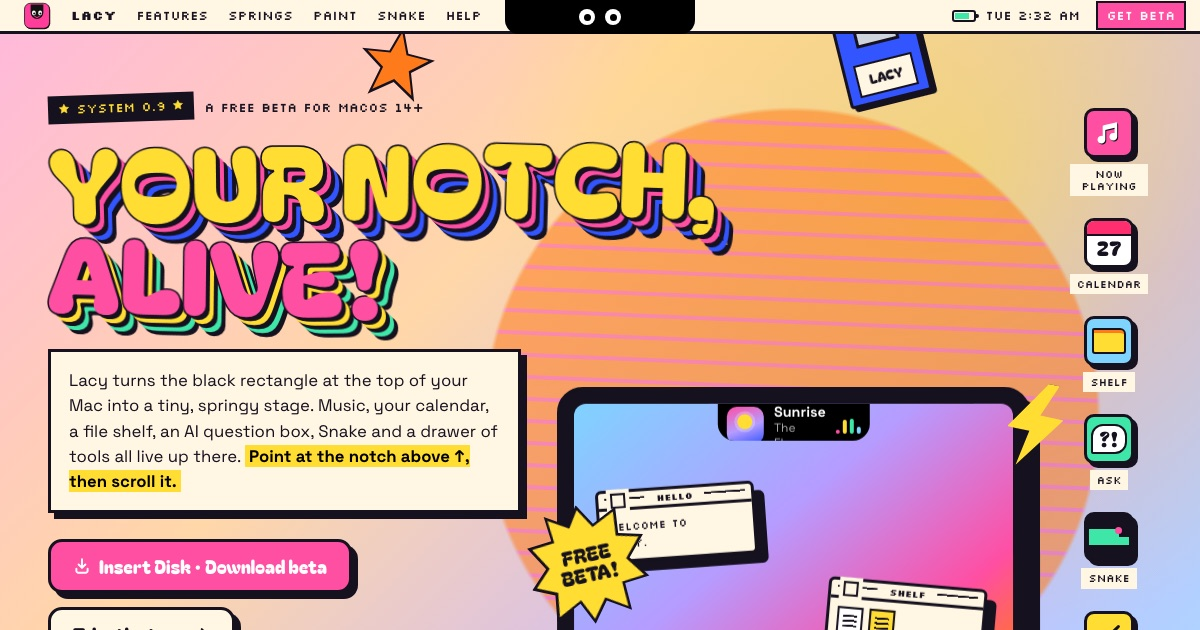
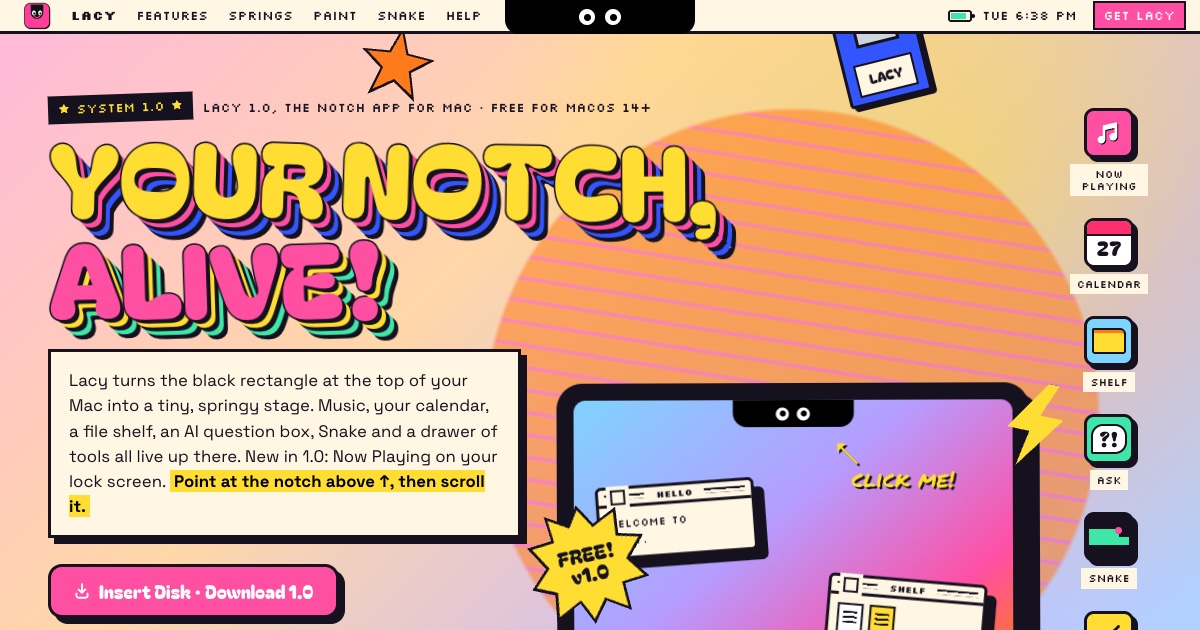
Deploy site from lacy@d2f816f

diff --git a/index.html b/index.html
@@ -10,7 +10,7 @@
 <meta property="og:type" content="website">
 <meta property="og:site_name" content="Lacy">
 <meta property="og:title" content="Lacy: a free notch app for Mac">
-<meta property="og:description" content="Music, calendar, a file shelf, Ask, Snake and tools, all living in your Mac's notch. Free beta for macOS 14+.">
+<meta property="og:description" content="Music, calendar, a file shelf, Ask, Snake and tools, all living in your Mac's notch, plus Now Playing on the lock screen. Free for macOS 14+.">
 <meta property="og:url" content="https://kirann-05.github.io/getlacy/">
 <meta property="og:image" content="https://kirann-05.github.io/getlacy/og.jpg">
 <meta property="og:image:width" content="1200">
@@ -18,8 +18,8 @@
 <meta name="twitter:card" content="summary_large_image">
 <meta name="twitter:image" content="https://kirann-05.github.io/getlacy/og.jpg">
 <title>Lacy: a free notch app for Mac · Your notch, alive</title>
-<meta name="description" content="Lacy is a free notch app for Mac. It turns your MacBook notch into a springy little stage for music, your calendar, a file shelf, AI questions, Snake and tools. Free beta for macOS 14+.">
-<script type="application/ld+json">{"@context": "https://schema.org", "@type": "SoftwareApplication", "name": "Lacy", "alternateName": "Lacy notch app", "applicationCategory": "UtilitiesApplication", "operatingSystem": "macOS 14 or later", "description": "Lacy is a free notch app for Mac. It turns the MacBook notch into a live space for now playing music, your calendar, a file shelf, quick AI questions, Snake and handy tools.", "url": "https://kirann-05.github.io/getlacy/", "image": "https://kirann-05.github.io/getlacy/og.jpg", "downloadUrl": "https://github.com/kirann-05/lacy-releases/releases/latest/download/Lacy.dmg", "softwareVersion": "0.9.0 beta", "offers": {"@type": "Offer", "price": "0", "priceCurrency": "USD"}}</script>
+<meta name="description" content="Lacy is a free notch app for Mac. It turns your MacBook notch into a springy little stage for music, your calendar, a file shelf, AI questions, Snake and tools, with Now Playing on the lock screen. Free for macOS 14+.">
+<script type="application/ld+json">{"@context": "https://schema.org", "@type": "SoftwareApplication", "name": "Lacy", "alternateName": "Lacy notch app", "applicationCategory": "UtilitiesApplication", "operatingSystem": "macOS 14 or later", "description": "Lacy is a free notch app for Mac. It turns the MacBook notch into a live space for now playing music, your calendar, a file shelf, quick AI questions, Snake and handy tools, plus a Now Playing card on the lock screen.", "url": "https://kirann-05.github.io/getlacy/", "image": "https://kirann-05.github.io/getlacy/og.jpg", "downloadUrl": "https://github.com/kirann-05/lacy-releases/releases/latest/download/Lacy.dmg", "softwareVersion": "1.0", "offers": {"@type": "Offer", "price": "0", "priceCurrency": "USD"}}</script>
 <link rel="preconnect" href="https://fonts.googleapis.com">
 <link rel="preconnect" href="https://fonts.gstatic.com" crossorigin>
 <link href="https://fonts.googleapis.com/css2?family=Bagel+Fat+One&family=Silkscreen:wght@400;700&family=VT323&family=Permanent+Marker&family=Space+Grotesk:wght@400;600;700&display=swap" rel="stylesheet">
@@ -84,7 +84,7 @@
   <div class="menubar__right">
     <span class="menubar__bat" aria-hidden="true"><i></i></span>
     <span id="clock" class="menubar__clock">--:--</span>
-    <a class="menubar__cta" href="#download">Get<span class="hide-xs"> beta</span></a>
+    <a class="menubar__cta" href="#download">Get<span class="hide-xs"> Lacy</span></a>
   </div>
 </header>
 
@@ -142,14 +142,14 @@
   <div class="hero__sun" aria-hidden="true"></div>
 
   <div class="hero__copy">
-    <p class="kicker"><span><svg class="i" aria-hidden="true"><use href="#i-star"/></svg> System 0.9 <svg class="i" aria-hidden="true"><use href="#i-star"/></svg></span> Lacy, the notch app for Mac · free beta for macOS 14+</p>
+    <p class="kicker"><span><svg class="i" aria-hidden="true"><use href="#i-star"/></svg> System 1.0 <svg class="i" aria-hidden="true"><use href="#i-star"/></svg></span> Lacy 1.0, the notch app for Mac · free for macOS 14+</p>
     <h1 id="heroTitle" class="mega">
       <span class="mega__line" data-split>YOUR NOTCH,</span>
       <span class="mega__line mega__line--b" data-split>ALIVE!</span>
     </h1>
-    <p class="hero__lede">Lacy turns the black rectangle at the top of your Mac into a tiny, springy stage. Music, your calendar, a file shelf, an AI question box, Snake and a drawer of tools all live up there. <mark>Point at the notch above ↑, then scroll it.</mark></p>
+    <p class="hero__lede">Lacy turns the black rectangle at the top of your Mac into a tiny, springy stage. Music, your calendar, a file shelf, an AI question box, Snake and a drawer of tools all live up there. New in 1.0: Now Playing on your lock screen. <mark>Point at the notch above ↑, then scroll it.</mark></p>
     <div class="hero__ctas">
-      <a href="#download" class="btn btn--pink"><svg class="i" aria-hidden="true"><use href="#i-download"/></svg> Insert Disk · Download beta</a>
+      <a href="#download" class="btn btn--pink"><svg class="i" aria-hidden="true"><use href="#i-download"/></svg> Insert Disk · Download 1.0</a>
       <a href="#features" class="btn btn--paper">Take the tour <svg class="i" aria-hidden="true"><use href="#i-arrow-right"/></svg></a>
     </div>
   </div>
@@ -186,7 +186,7 @@
 
   <!-- draggable stickers -->
   <div class="stickers" aria-hidden="true">
-    <div class="sticker burst burst--yellow" style="--x:44%;--y:58%;--r:-12deg">FREE<br>BETA!</div>
+    <div class="sticker burst burst--yellow" style="--x:44%;--y:58%;--r:-12deg">FREE!<br>v1.0</div>
     <div class="sticker pill pill--mint" style="--x:44%;--y:84%;--r:6deg">0.0% CPU idle</div>
     <div class="sticker circle circle--blue" style="--x:78%;--y:80%;--r:14deg">31<small>MB</small></div>
     <div class="sticker star" style="--x:30%;--y:3%;--r:10deg"></div>
@@ -218,7 +218,7 @@
   <div class="grid">
     <!-- Player -->
     <article class="win win--tilt1" id="f-player">
-      <div class="win__bar"><span class="win__close"></span><span class="win__title">Now Playing</span></div>
+      <div class="win__bar"><span class="win__close"></span><span class="win__title">Now Playing</span><span class="win__new pixel">NEW: lock screen</span></div>
       <div class="win__body">
         <div class="demo-player">
           <div class="dp__art" id="dpArt"><span></span></div>
@@ -227,7 +227,7 @@
             <div class="dp__ctrls"><button data-np="prev" aria-label="Previous"><svg class="i" aria-hidden="true"><use href="#i-backward"/></svg></button><button data-np="play" aria-label="Play or pause" class="big"><svg class="i" aria-hidden="true"><use href="#i-pause"/></svg></button><button data-np="next" aria-label="Next"><svg class="i" aria-hidden="true"><use href="#i-forward"/></svg></button></div>
           </div>
         </div>
-        <p>Spotify, Music, YouTube in your browser, podcasts, video players. Real artwork, a scrubber, and a waveform tinted to match the cover. Swipe the closed notch to skip. <mark>Press play: these songs are original chiptunes made for this page.</mark></p>
+        <p>Spotify, Music, YouTube in your browser, podcasts, video players. Real artwork, a scrubber, and a waveform tinted to match the cover. Swipe the closed notch to skip. New in 1.0: lock your Mac and a see-through glass card keeps what's playing, with controls, right on the lock screen. <mark>Press play: these songs are original chiptunes made for this page.</mark></p>
       </div>
     </article>
 
@@ -408,10 +408,11 @@
     <div class="win__body">
       <h2 id="faqTitle" class="title title--small">Read Me First</h2>
       <details open><summary>Which Macs does it run on?</summary><p>macOS 14 or later, on both Apple silicon and Intel. If your Mac has no notch, Lacy draws one for you.</p></details>
-      <details><summary>Is it free?</summary><p>Yes, for the whole beta. We'll talk about 1.0 later.</p></details>
-      <details><summary>macOS says "Lacy Not Opened". Help?</summary><p>The beta isn't notarized yet. Right-click Lacy in Applications, choose <b>Open</b>, then <b>Open</b> again. The disk image has an "Open Me First" note that walks you through it.</p></details>
+      <details><summary>Is it free?</summary><p>Yes, Lacy 1.0 is free. No account needed.</p></details>
+      <details><summary>macOS says "Lacy Not Opened". Help?</summary><p>Lacy isn't notarized by Apple yet. Right-click Lacy in Applications, choose <b>Open</b>, then <b>Open</b> again. The disk image has an "Open Me First" note that walks you through it.</p></details>
       <details><summary>Will it slow my Mac down?</summary><p>It idles at 0.0% CPU and about 31 MB of memory. Nothing polls.</p></details>
       <details><summary>Does it hide in full screen?</summary><p>Over full-screen apps the notch turns invisible and lets clicks through until you point right at it. It also steps aside while you're in the app that's playing.</p></details>
+      <details><summary>Does it work on the lock screen?</summary><p>Yes, new in 1.0. While your Mac is locked, a see-through glass card shows what's playing, with play, pause and skip. Prefer frosted? Pick Match System in Settings.</p></details>
       <details><summary>Can it hide from screenshots?</summary><p>Yes. It's optional, and the setting also covers screen sharing.</p></details>
       <details><summary>What does it collect?</summary><p>Nothing. There's no account and no analytics. Updates come from a public GitHub repository.</p></details>
     </div>
@@ -423,12 +424,12 @@
   <div class="download__rays" aria-hidden="true"></div>
   <div class="disk" aria-hidden="true">
     <div class="disk__shutter"><span></span></div>
-    <div class="disk__label"><b>LACY</b><small>0.9 beta · disk 1 of 1</small></div>
+    <div class="disk__label"><b>LACY</b><small>version 1.0 · disk 1 of 1</small></div>
   </div>
   <div class="download__copy">
     <h2 id="dlTitle" class="mega mega--dl"><span class="mega__line">INSERT</span><span class="mega__line mega__line--b">DISK.</span></h2>
-    <p>Free beta · macOS 14+ · Apple silicon &amp; Intel · updates itself</p>
-    <a class="btn btn--yellow btn--huge" id="dlBtn" href="https://github.com/kirann-05/lacy-releases/releases/latest/download/Lacy.dmg" download><svg class="i" aria-hidden="true"><use href="#i-download"/></svg> Download Lacy beta</a>
+    <p>Free · macOS 14+ · Apple silicon &amp; Intel · updates itself</p>
+    <a class="btn btn--yellow btn--huge" id="dlBtn" href="https://github.com/kirann-05/lacy-releases/releases/latest/download/Lacy.dmg" download><svg class="i" aria-hidden="true"><use href="#i-download"/></svg> Download Lacy 1.0</a>
     <p class="pixel download__fine">.dmg · about 5 MB · read the "Open Me First" note</p>
   </div>
 </section>

diff --git a/styles.css b/styles.css
@@ -377,6 +377,9 @@ button { font: inherit; color: inherit; cursor: pointer; }
 }
 .win__close { position: absolute; left: 12px; top: 50%; width: 15px; height: 15px; transform: translateY(-50%); background: var(--paper); border: 2px solid var(--ink); box-shadow: 0 0 0 4px var(--paper); }
 .win__title { background: var(--paper); padding: 0 12px; font: 700 13px/1 var(--pixel); white-space: nowrap; }
+.win__new { position: absolute; right: -10px; top: -14px; z-index: 2; background: var(--pink); color: var(--paper); border: 2px solid var(--ink); box-shadow: 3px 3px 0 var(--ink); border-radius: 999px; padding: 5px 10px; font-size: 11px; line-height: 1; white-space: nowrap; transform: rotate(4deg); animation: newbob 2.4s ease-in-out infinite; }
+@keyframes newbob { 50% { transform: rotate(-2deg) translateY(-2px); } }
+@media (prefers-reduced-motion: reduce) { .win__new { animation: none; } }
 .win__body { padding: 18px; }
 .win__body p { margin: 14px 0 0; font-size: 15px; }
 
@@ -657,7 +660,7 @@ details p { margin: 8px 0 4px 26px !important; font-size: 16px !important; }
   .laptop { max-width: 600px; }
   .icons { grid-template-columns: repeat(7, 86px); }
   .sticker:nth-child(2), .sticker:nth-child(3), .sticker:nth-child(5), .sticker:nth-child(9) { display: none; }
-  .sticker:nth-child(1) { left: auto; right: 6%; top: 46%; }   /* FREE BETA burst beside the laptop */
+  .sticker:nth-child(1) { left: auto; right: 6%; top: 46%; }   /* FREE v1.0 burst beside the laptop */
   .springs, .snake { gap: 36px; }
   .lab { height: 420px; }
   .win--snake { max-width: 640px; width: 100%; justify-self: center; }
